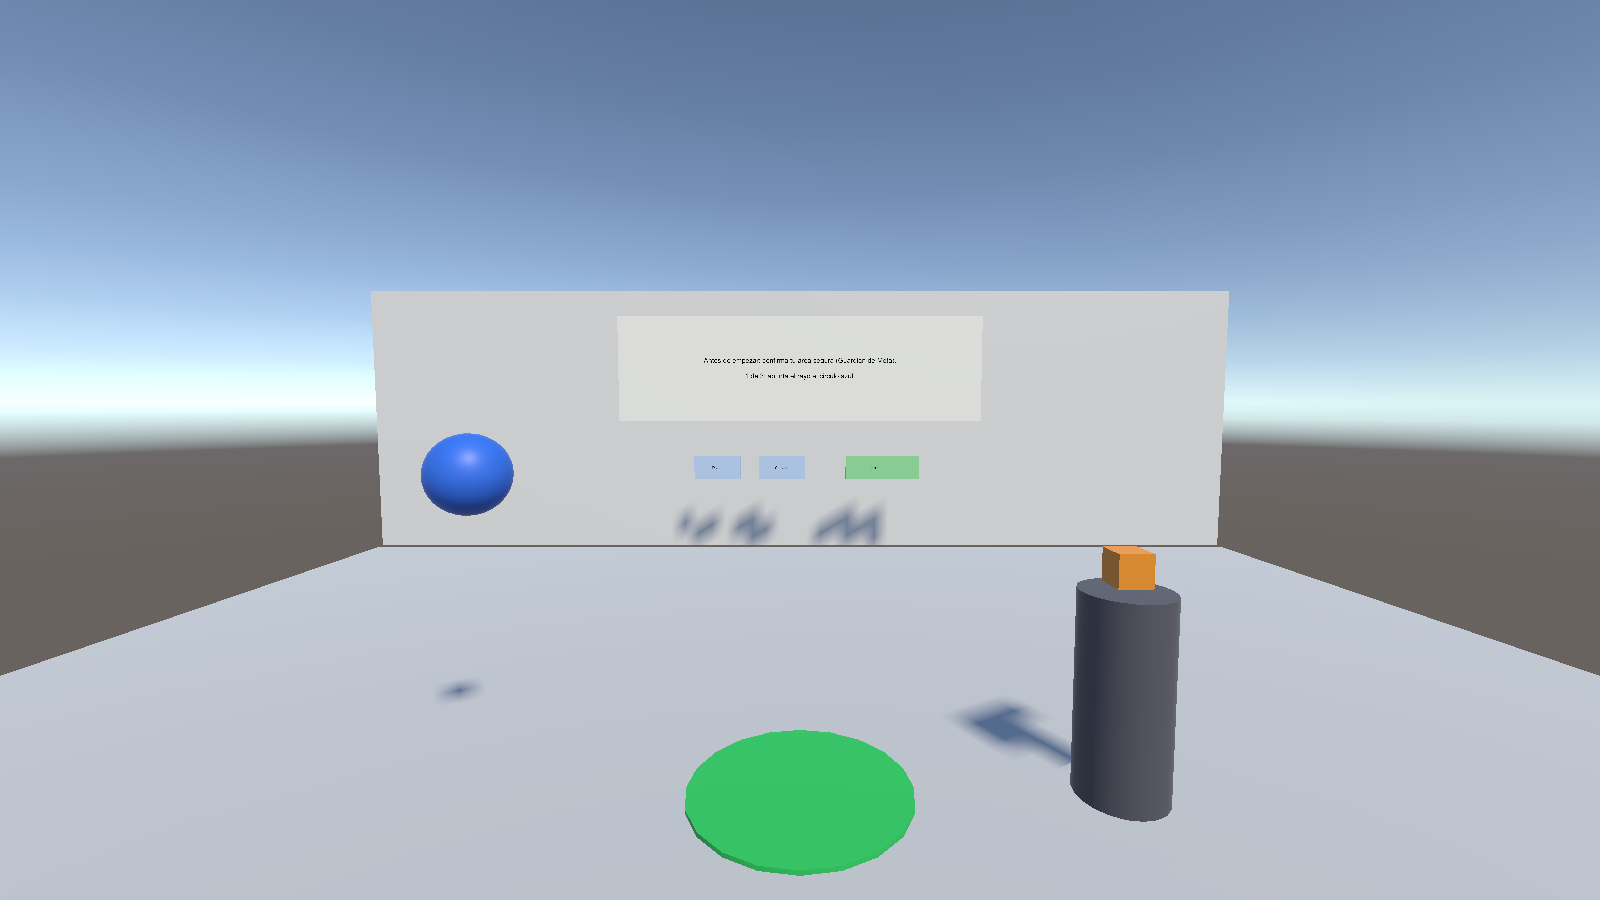
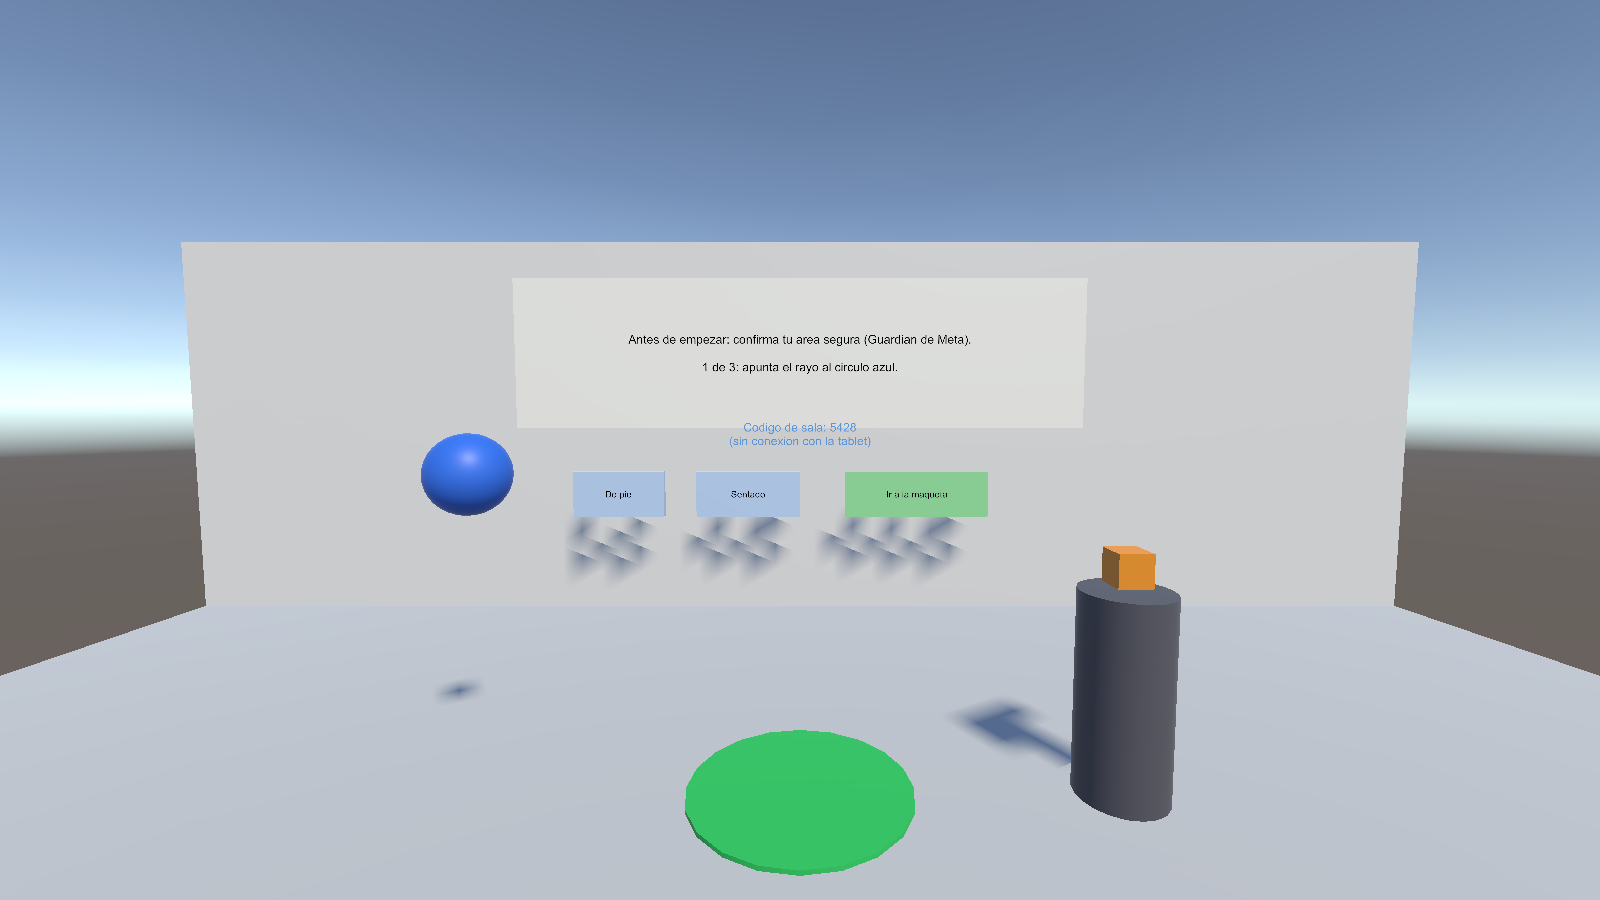
docs: semana 7 (ADR 11-14, estado actual, capturas)

Changed region(s): [[0.0938, 0.2489, 0.9062, 0.6844], [0.3438, 0.4667, 0.625, 0.6533], [0.4375, 0.3733, 0.5938, 0.4356]]

diff --git a/client/Assets/Umbral/App/Tests/ShotsTests.cs b/client/Assets/Umbral/App/Tests/ShotsTests.cs
@@ -99,6 +99,69 @@ namespace Umbral.App.Tests
             Session.Control.SetPaused(false);
         }
 
+        private static void Snap(string file, Vector3 pos, Vector3 look, string outDir)
+        {
+            var cam = new GameObject("ShotCam", typeof(Camera)).GetComponent<Camera>();
+            cam.transform.position = pos;
+            cam.transform.LookAt(look);
+            cam.fieldOfView = 70;
+            var rt = new RenderTexture(1600, 900, 24);
+            cam.targetTexture = rt;
+            cam.Render();
+            RenderTexture.active = rt;
+            var tex = new Texture2D(rt.width, rt.height, TextureFormat.RGB24, false);
+            tex.ReadPixels(new Rect(0, 0, rt.width, rt.height), 0, 0);
+            tex.Apply();
+            RenderTexture.active = null;
+            Directory.CreateDirectory(outDir);
+            File.WriteAllBytes(Path.Combine(outDir, file), tex.EncodeToPNG());
+            Object.Destroy(tex);
+            Object.Destroy(cam.gameObject);
+            rt.Release();
+        }
+
+        private static IEnumerator WaitFor(System.Func<bool> condition, float seconds = 15f)
+        {
+            var timeout = Time.realtimeSinceStartup + seconds;
+            while (!condition() && Time.realtimeSinceStartup < timeout) yield return null;
+        }
+
+        // Requiere el servidor real (UMBRAL_SERVER): reserva A-301 con acabados elegidos y captura la ficha; después la maqueta con las reservadas en ámbar.
+        [UnityTest]
+        [Category("Shots")]
+        public IEnumerator CapturasSemana7()
+        {
+            var outDir = System.Environment.GetEnvironmentVariable("UMBRAL_SHOTS");
+            var server = System.Environment.GetEnvironmentVariable("UMBRAL_SERVER");
+            if (string.IsNullOrEmpty(outDir) || string.IsNullOrEmpty(server)) Assert.Ignore("Definí UMBRAL_SHOTS y UMBRAL_SERVER");
+            if (SystemInfo.graphicsDeviceType == UnityEngine.Rendering.GraphicsDeviceType.Null) Assert.Ignore("Requiere GPU");
+            Session.Reset();
+            SessionHost.ServerUrl = server;
+
+            SceneManager.LoadScene("Apartment_Greybox");
+            for (var i = 0; i < 40; i++) yield return null;
+            var host = Object.FindFirstObjectByType<ConfiguratorHost>();
+            yield return WaitFor(() => host.Ready.IsCompleted);
+            var configurator = host.Ready.Result;
+            configurator.Select("floor", "floor-wood");
+            configurator.Select("counter", "counter-quartz");
+            var button = Object.FindFirstObjectByType<ReserveButton>();
+            button.Press();
+            yield return WaitFor(() => button.LastOutcome != null);
+            for (var i = 0; i < 5; i++) yield return null;
+            Snap("s7-ficha.png", new Vector3(3.9f, 1.5f, 1.4f), new Vector3(3.9f, 1.3f, 3.0f), outDir);
+
+            Session.Reset();
+            SceneManager.LoadScene("Maqueta");
+            var board = Object.FindFirstObjectByType<MaquetaBoard>();
+            for (var i = 0; i < 10; i++) yield return null;
+            board = Object.FindFirstObjectByType<MaquetaBoard>();
+            yield return WaitFor(() => board.Loaded);
+            for (var i = 0; i < 20; i++) yield return null;
+            Snap("s7-maqueta-reservada.png", new Vector3(0.6f, 1.7f, 0.4f), new Vector3(0f, 1.2f, 3f), outDir);
+            SessionHost.ServerUrl = "http://localhost:3000";
+        }
+
         [UnityTest]
         [Category("Shots")]
         public IEnumerator CapturasSemana5()

diff --git a/CLAUDE.md b/CLAUDE.md
@@ -26,11 +26,13 @@ Equipo de 3 personas; el usuario lleva el desarrollo. Idioma de trabajo: españo
 - Comodidad VR: solo teletransporte con fundido, giro en pasos de 30°, 72 fps mínimo, interfaz anclada a la muñeca o al objeto, nunca fija frente a los ojos.
 - Commitea siempre los `.meta`. Una persona por escena a la vez; lo compartido va en prefabs.
 
-## Estado actual (Semana 6)
+## Estado actual (Semana 7)
 
-Hecho y verificado: servidor (11 tests, incluye el relay WebSocket), proyecto Unity 6000.6.8f1 en `client/` (URP, XRI 3.7.0, OpenXR 1.19.0, Meta OpenXR 2.7.0), 49 tests EditMode y 38 PlayMode (más 3 que solo corren con `UMBRAL_SHOTS` o `UMBRAL_SERVER`) (sin `-nographics`; con él se omiten los de GPU) pasan en local, rig compartido `Assets/Umbral/Prefabs/UmbralRig.prefab` (solo teletransporte con fundido, giro 30° sin 180°, modo sentado vía tracking Device; menú `Umbral > Build Rig Prefab`), escena `Boot` y grey-box PROVISORIO `Apartment_Greybox` de 58 m² (el GDD no da plano; reemplazar medidas en `GreyboxBuilder.cs` cuando exista), `WristPrice` en el rig (precio en vivo; formato fijo "Bs 520,000" sin depender del idioma), acabados: `Core/Configurator` (estado + total) compartido por `ConfiguratorHost`, muestras 3D `FinishSwatch` (XRSimpleInteractable) en tres paletas del grey-box (piso, pared oeste, mesón), colores solo en cliente (`FinishPalette`; toda opción del catálogo debe tener color), reloj solar en el grey-box (4 paradas 7/12/16/19 h: lightmaps horneados + ambiente + tinte del cielo por parada, fundido compartido; sin luces en tiempo real; **tras regenerar la escena con `Build Greybox Scene` hay que correr `Umbral > Bake Greybox Solar`**, ~4 min, requiere GPU), ventana 360° con panorama PROVISORIO generado por código (`WindowView`; reemplazar por fotos reales de dron, una por piso), cinta métrica (`TapeMeasure`: gatillo derecho marca la posición del control, 2 puntos = cm) y botones 3D de la muñeca izquierda (`WristButton`: 4 paradas + interruptor de la cinta), ajustes Android aplicados (menú `Umbral > Apply Android Quest Settings`), APK compila (`Umbral.EditorTools.BuildScript.Android`), repo público `andredellien/umbral-vr`, informe en `docs/AVANCE.md/.pdf`. Flujo de escenas (semana 5): `Lobby` (tutorial de 3 pasos: apuntar, teletransportar, agarrar; botones de pie/sentado; el área segura es de Guardian y solo se indica) → `Maqueta` (torre sobre mesa, un bloque por unidad: disponible en verde, reservada ámbar, vendida gris; solo las disponibles se eligen) → `Apartment_Greybox` (llegada: `ArrivalPoint` coloca al visitante en la puerta; el precio de la muñeca sigue la unidad elegida). `SceneFlow.GoTo` oscurece, carga y la escena nueva aclara sola (sin vuelo de cámara); estado entre escenas en `Session` sobre `Core/SessionFlow` (salto por índice listo para la tablet de la semana 6). Catálogo v2: `status` por unidad (vacío = disponible) y el seed del build gana a una caché de versión menor. Escenas generadas con `Umbral > Build Lobby Scene` / `Build Maqueta Scene`; el build arranca en el Lobby (`SceneRegistry`). No existe aún cómo volver a la maqueta desde la llegada.
+Hecho y verificado: servidor (19 tests: relay WebSocket, reservas y eventos; reservas y eventos en archivos bajo `server/data/` porque no hay PostgreSQL ni Docker, ADR #12), proyecto Unity 6000.6.8f1 en `client/` (URP, XRI 3.7.0, OpenXR 1.19.0, Meta OpenXR 2.7.0), 53 tests EditMode y 53 PlayMode (más las capturas, que solo corren con `UMBRAL_SHOTS`/`UMBRAL_SERVER`; la prueba de reserva real necesita `UMBRAL_SERVER` con el servidor corriendo y datos limpios) (sin `-nographics`; con él se omiten los de GPU) pasan en local, rig compartido `Assets/Umbral/Prefabs/UmbralRig.prefab` (solo teletransporte con fundido, giro 30° sin 180°, modo sentado vía tracking Device; menú `Umbral > Build Rig Prefab`), escena `Boot` y grey-box PROVISORIO `Apartment_Greybox` de 58 m² (el GDD no da plano; reemplazar medidas en `GreyboxBuilder.cs` cuando exista), `WristPrice` en el rig (precio en vivo; formato fijo "Bs 520,000" sin depender del idioma), acabados: `Core/Configurator` (estado + total) compartido por `ConfiguratorHost`, muestras 3D `FinishSwatch` (XRSimpleInteractable) en tres paletas del grey-box (piso, pared oeste, mesón), colores solo en cliente (`FinishPalette`; toda opción del catálogo debe tener color), reloj solar en el grey-box (4 paradas 7/12/16/19 h: lightmaps horneados + ambiente + tinte del cielo por parada, fundido compartido; sin luces en tiempo real; **tras regenerar la escena con `Build Greybox Scene` hay que correr `Umbral > Bake Greybox Solar`**, ~4 min, requiere GPU), ventana 360° con panorama PROVISORIO generado por código (`WindowView`; reemplazar por fotos reales de dron, una por piso), cinta métrica (`TapeMeasure`: gatillo derecho marca la posición del control, 2 puntos = cm) y botones 3D de la muñeca izquierda (`WristButton`: 4 paradas + interruptor de la cinta), ajustes Android aplicados (menú `Umbral > Apply Android Quest Settings`), APK compila (`Umbral.EditorTools.BuildScript.Android`), repo público `andredellien/umbral-vr`, informe en `docs/AVANCE.md/.pdf`. Flujo de escenas (semana 5): `Lobby` (tutorial de 3 pasos: apuntar, teletransportar, agarrar; botones de pie/sentado; el área segura es de Guardian y solo se indica) → `Maqueta` (torre sobre mesa, un bloque por unidad: disponible en verde, reservada ámbar, vendida gris; solo las disponibles se eligen) → `Apartment_Greybox` (llegada: `ArrivalPoint` coloca al visitante en la puerta; el precio de la muñeca sigue la unidad elegida). `SceneFlow.GoTo` oscurece, carga y la escena nueva aclara sola (sin vuelo de cámara); estado entre escenas en `Session` sobre `Core/SessionFlow` (salto por índice listo para la tablet de la semana 6). Catálogo v2: `status` por unidad (vacío = disponible) y el seed del build gana a una caché de versión menor. Escenas generadas con `Umbral > Build Lobby Scene` / `Build Maqueta Scene`; el build arranca en el Lobby (`SceneRegistry`). No existe aún cómo volver a la maqueta desde la llegada.
 
 App del asesor (semana 6): el visor es anfitrión de una sala por código de 4 dígitos (`SessionHost`, vive entre escenas; el código se ve en el tablero del lobby y en la muñeca) y el servidor NestJS hace de relay (`/session`, `{"event","data"}`, `RoomsService`; estado visor→asesor, comandos asesor→visor, el asesor tardío recibe el último estado). El visor publica `Core/SessionSnapshot` cuando cambia (sondeo a 4 Hz) y ejecuta `SessionCommand` (pausa, reanudar, saltar de etapa; sin descuentos). Pausa: negro + interactores/locomoción apagados + cartel por encima del fundido; se levanta sola si se va el asesor o se cae el canal; los saltos se ignoran en pausa. Sin servidor el comprador usa la app igual (reintenta con espera; solo `LogWarning`). La URL del relay sale de `SessionHost.ServerUrl` (mismo servidor del catálogo, `http://localhost:3000`: en el Quest hay que cambiarla por la IP de la PC). Escena `Asesor` (`Umbral > Build Advisor Scene`, UGUI Screen Space - Camera, `AdvisorView`): se une con el código, refleja el estado y manda comandos; NO está en la lista de escenas del APK del Quest. Capturas de informe: `UMBRAL_SHOTS=docs/img` con los tests `Shots`; interop con el servidor real: `UMBRAL_SERVER=http://localhost:3000` (test `Interop`). `ClientWebSocket` no está verificado con IL2CPP en el visor (puede hacer falta `link.xml`).
+
+Semana 7: telemetría con cola local JSONL (`Net/TelemetryQueue`, GUID por evento, `TelemetryHost` envía lotes a `POST /events` con espera creciente y el servidor deduplica por id; eventos: inicio/fin de sesión, etapa, acabado, herramienta, reserva); reservas con `POST /reservations` (el servidor recalcula el total, 409 si la unidad no está disponible, `GET /catalog` superpone las reservas sin tocar el seed) y botón `Reservar` con ficha mínima en el grey-box (`Umbral > Add Greybox Reserve Station` lo añade a la escena horneada sin re-hornear). Arreglos de la revisión de la semana 5 aplicados (caché ilegible, aire entre bloques de la maqueta, llegada compensando el visor). Sin verificar: `ClientWebSocket`/envío HTTP bajo IL2CPP en el Quest, URL del servidor en el visor (`SessionHost.ServerUrl` es localhost), botón de reserva y ficha en VR, y las unidades que un servidor agregue tras generar la maqueta no tienen bloque.
 
 Pendiente, en orden:
 1. Build and Run en el Quest y medir fps (falta el visor en modo desarrollador). Ajustar posición del panel en la muñeca. Confirmar ASTC.

diff --git a/docs/ADR-001-decisiones-iniciales.md b/docs/ADR-001-decisiones-iniciales.md
@@ -14,6 +14,7 @@ Estado: aceptado. Se revisa si una decisión nos frena.
 | 8 | Código de lógica en `Umbral.Core` (C# puro, sin UnityEngine) | Se prueba sin abrir el editor y en CI |
 | 9 | Catálogo: red → caché en disco → seed incluido en el build | La app funciona sin internet, como pide el GDD |
 | 10 | La primera opción de cada superficie es la incluida en el precio base (delta 0) | Convención simple para calcular y mostrar "No incluido" |
+| 11 | El visor y la tablet se hablan por un **relay WebSocket en el servidor** (`/session`, sala de 4 dígitos), no directo por la red local | El servidor puede correr en una laptop de la sala; evita implementar descubrimiento en LAN. El visor sigue funcionando sin servidor |
 | 12 | Reservas y eventos se guardan en **archivos** (`server/data/`: `reservations.json` atómico y `events.jsonl`), no en PostgreSQL | No hay PostgreSQL ni Docker corriendo en la máquina de desarrollo; el contrato de `StoreService` es lo que se migra a una base después |
 | 13 | El servidor recalcula el total de una reserva y responde **409** si la unidad no está disponible; `GET /catalog` superpone las reservas al seed sin modificarlo | Nunca se confía en el precio del cliente y dos visores no pueden reservar la misma unidad |
 | 14 | Telemetría con cola local (JSONL, un GUID por evento) y `POST /events` con reintentos y deduplicación por id | La sesión funciona sin internet y un reintento no cuenta dos veces |
